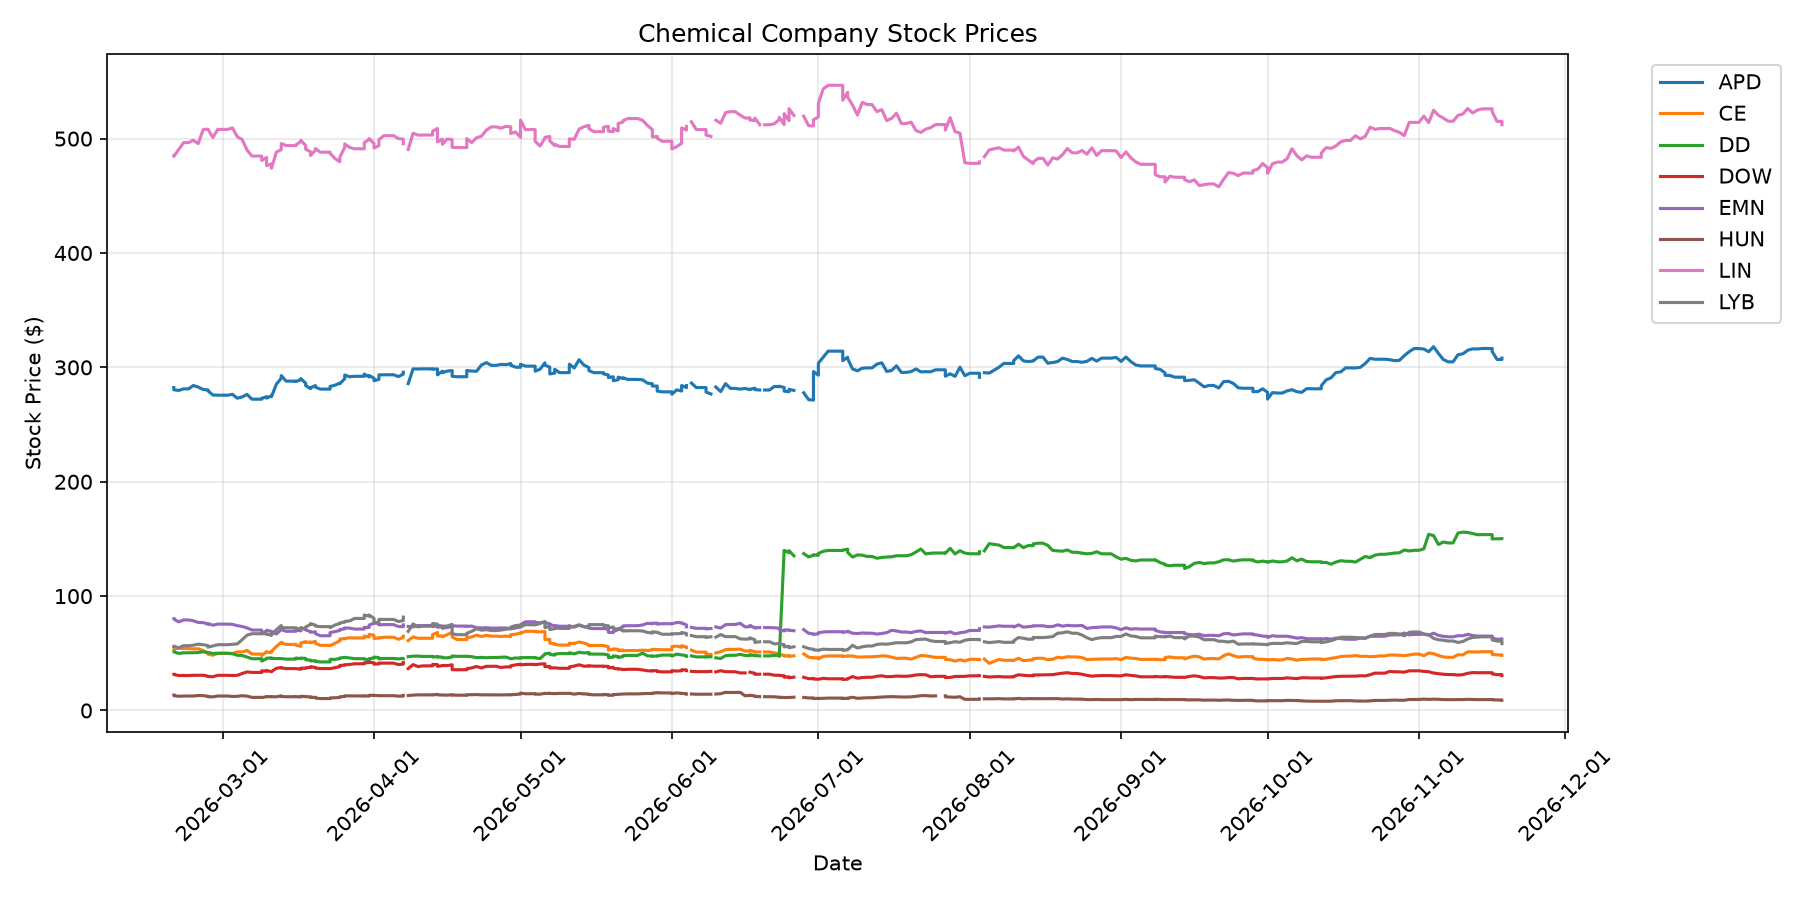
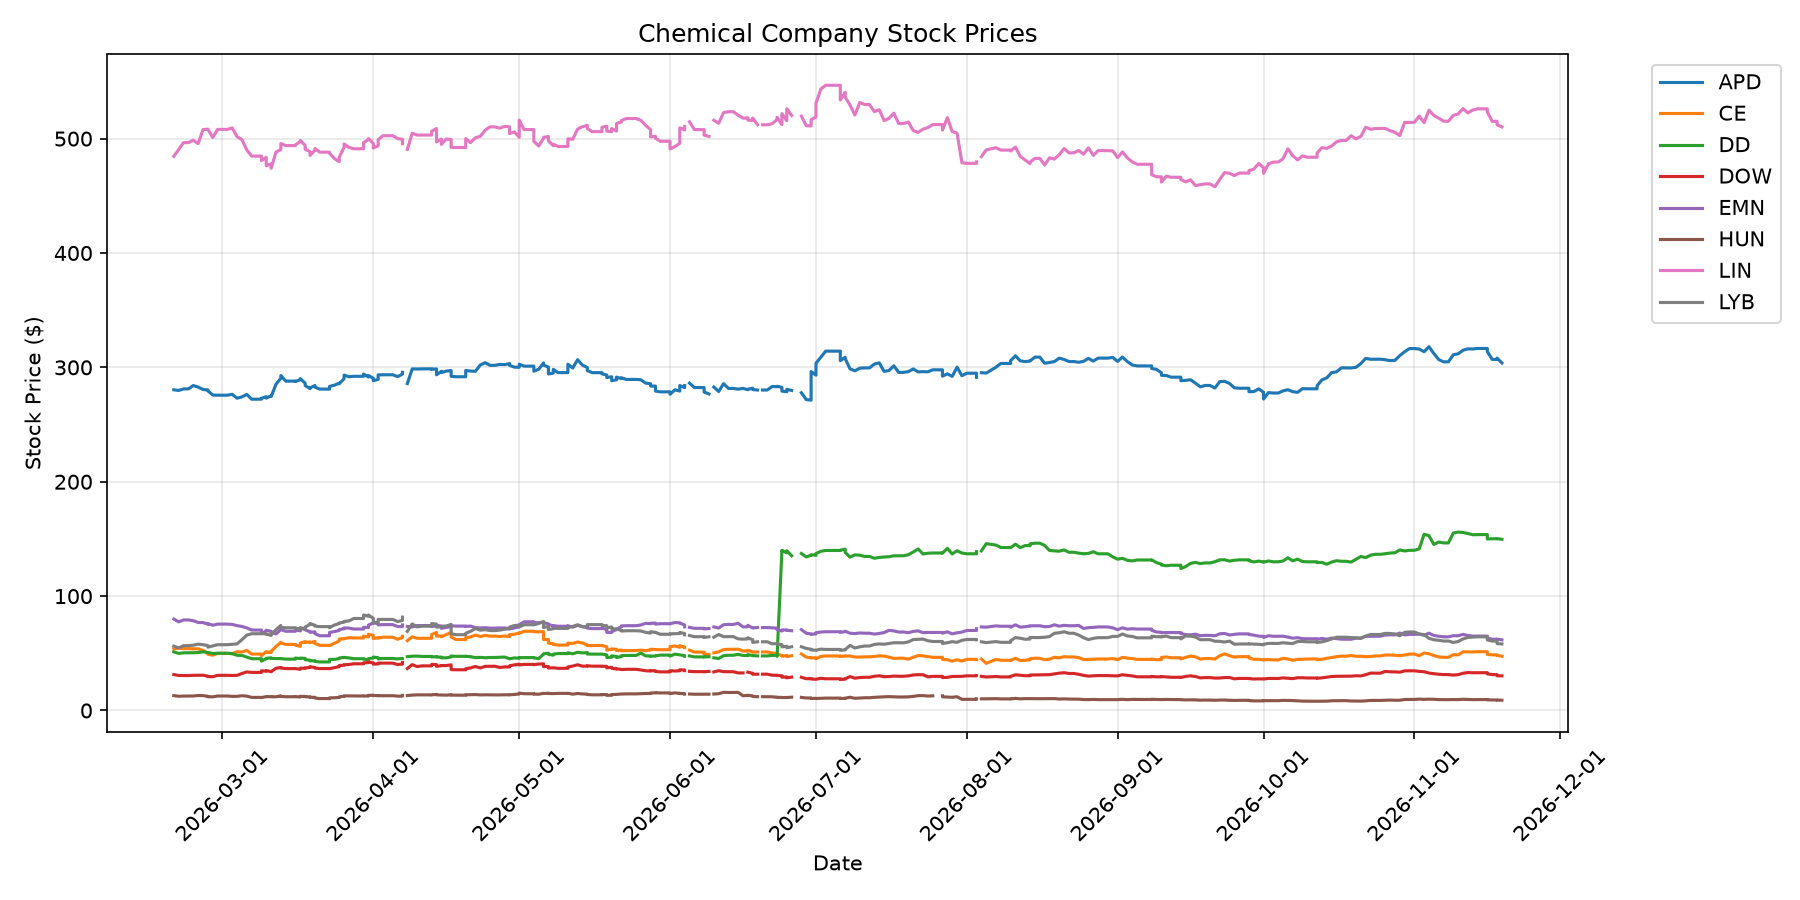
Daily price update: 2026-11-19

diff --git a/README.md b/README.md
@@ -2,29 +2,29 @@
 
 Automated daily tracking of chemical commodity prices and chemical company stocks.
 
-## Latest Prices (Updated: 2026-11-18)
+## Latest Prices (Updated: 2026-11-19)
 
 ### Energy Commodities
 
 | Commodity | Price | Change (24h) | Unit |
 |-----------|-------|--------------|------|
-| WTI Crude Oil | $82.13 | -3.88 (-4.51%) | $/barrel |
-| Brent Crude Oil | $88.95 | -4.19 (-4.50%) | $/barrel |
-| Natural Gas | $3.40 | +0.19 (+5.92%) | $/MMBtu |
-| Heating Oil | $3.88 | -0.17 (-4.20%) | $/gallon |
+| WTI Crude Oil | $83.19 | -0.07 (-0.08%) | $/barrel |
+| Brent Crude Oil | $90.16 | -1.79 (-1.95%) | $/barrel |
+| Natural Gas | $3.25 | -0.12 (-3.68%) | $/MMBtu |
+| Heating Oil | $3.90 | -0.08 (-1.93%) | $/gallon |
 
 ### Chemical Company Stocks
 
 | Company | Ticker | Price | Change (24h) |
 |---------|--------|-------|--------------|
-| Dow Inc. | DOW | $30.37 | -1.00 (-3.19%) |
-| LyondellBasell | LYB | $58.46 | -2.23 (-3.67%) |
-| DuPont | DD | $150.23 | +0.09 (+0.06%) |
-| Air Products | APD | $308.11 | +1.19 (+0.39%) |
-| Linde | LIN | $512.16 | -2.95 (-0.57%) |
-| Eastman Chemical | EMN | $62.36 | +0.06 (+0.10%) |
-| Celanese | CE | $48.21 | -0.45 (-0.92%) |
-| Huntsman | HUN | $9.03 | -0.16 (-1.74%) |
+| Dow Inc. | DOW | $30.25 | -0.12 (-0.40%) |
+| LyondellBasell | LYB | $58.19 | -0.27 (-0.46%) |
+| DuPont | DD | $149.69 | -0.54 (-0.36%) |
+| Air Products | APD | $303.83 | -4.28 (-1.39%) |
+| Linde | LIN | $510.21 | -1.95 (-0.38%) |
+| Eastman Chemical | EMN | $61.71 | -0.65 (-1.04%) |
+| Celanese | CE | $47.40 | -0.81 (-1.68%) |
+| Huntsman | HUN | $8.97 | -0.06 (-0.66%) |
 
 ## Data Sources
 

diff --git a/logs/update_log.md b/logs/update_log.md
@@ -439,3 +439,4 @@ Daily updates to the chemical engineering data repository.
 - **2026-11-17 21:57:21**: Updated 4 energy prices, 8 stocks, 0 FRED series
 - **2026-11-18 00:26:28**: Updated 4 energy prices, 8 stocks, 0 FRED series
 - **2026-11-18 21:39:25**: Updated 4 energy prices, 8 stocks, 0 FRED series
+- **2026-11-19 21:54:52**: Updated 4 energy prices, 8 stocks, 0 FRED series
